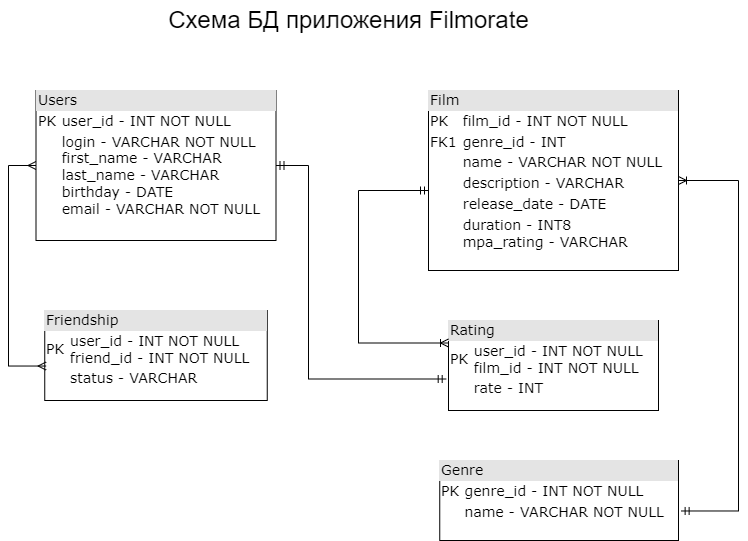
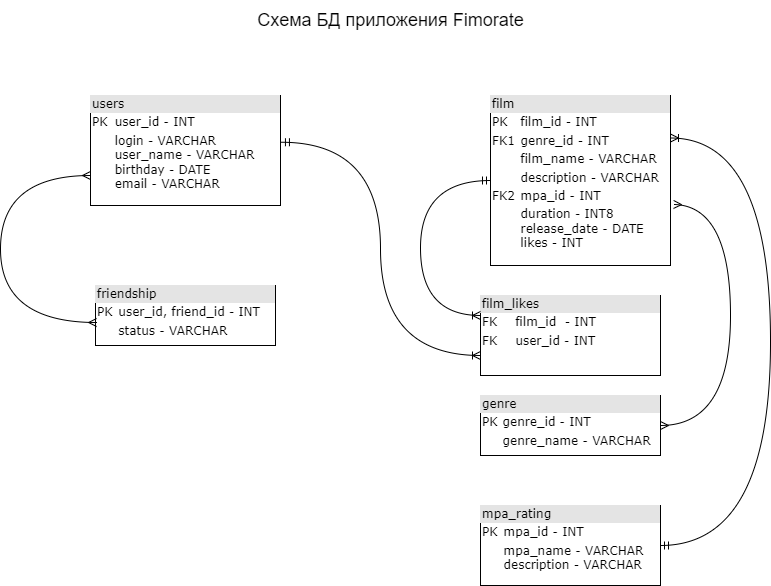
Схема БД, примеры запросов

diff --git a/README.md b/README.md
@@ -5,51 +5,48 @@
 
 # Описание таблиц:
 
-## Users - содержит данные о пользователях
+## users - содержит данные о пользователях
 
 * **user_id** - индентификатор пользователя, первичный ключ
 * **login** - логин пользователя
-* **first_name** - имя пользователя
-* **last_name** - фамилия пользователя
+* **user_name** - имя пользователя
 * **birthday** - день рождения пользователя
 * **email** - адрес почты пользователя
 
 
-## Friendship - сосдержит данные о статусах добавления в друзья
+## friendship - сосдержит данные о статусах добавления в друзья
 
 * **(user_id, friend_id)** - индентификаторы пользователя, составной первичный ключ (формируется из двух уникальных user_id из таблицы Users)
 * **status** - статус добавления в друзья (UNCONFIRMED, CONFIRMED)
 
 
-## Genre - содержит данные о жанрах фильмов
+## genre - содержит данные о жанрах фильмов
 
 * **genre_id** - идентификатор жанра фильма, первичный ключ
-* **name** - название жанра фильма
+* **genre_name** - название жанра фильма
 
 
-## Film - содержит данные о фильмах
+## film - содержит данные о фильмах
 
 * **film_id** - идентификатор фильма, первичный ключ
 * **genre_id** - идентификатор жанра фильма, внешний ключ
-* **name** - название фильма
+* **film_name** - название фильма
 * **description** - краткое описание фильма
 * **release_date** - дата премьеры фильма
 * **duration** - продолжительность фильма
-* **mpa_rating** - возрастной рейтинг.
-  
-  Например:
-G — у фильма нет возрастных ограничений,
-PG — детям рекомендуется смотреть фильм с родителями,
-PG-13 — детям до 13 лет просмотр не желателен,
-R — лицам до 17 лет просматривать фильм можно только в присутствии взрослого,
-NC-17 — лицам до 18 лет просмотр запрещён.
+* **mpa_id** - возрастной рейтинг.
 
+## film_likes - содержит данные о пользовательском рейтинге фильма
 
-## Rating - содержит данные о пользовательском рейтинге фильма
+* **user_id** - id пользователя, поставившего лайк. Внешний ключ 
+* **film_id** - id фильма. Внешний ключ
+* **likes** - количество лайков пользователей
 
-* **(user_id, film_id)** - составной первичный ключ (формируется из  user_id таблицы Users и film_id из таблицы Film)
-* **rate** - рейтинг фильма, составленный из количества лайков пользователей
+## mpa_rating - содержит данные о возрастном рейтинге фильма (Ассоциации кинокомпаний - англ. Motion Picture Association, сокращённо МРА)
 
+* **mpa_id** - идентификатор рейтинга. Первичный ключ
+* **mpa_name** - код рейтинга
+* **description** - описание кода рейтинга
 
 ## Пример запросов к БД
 
